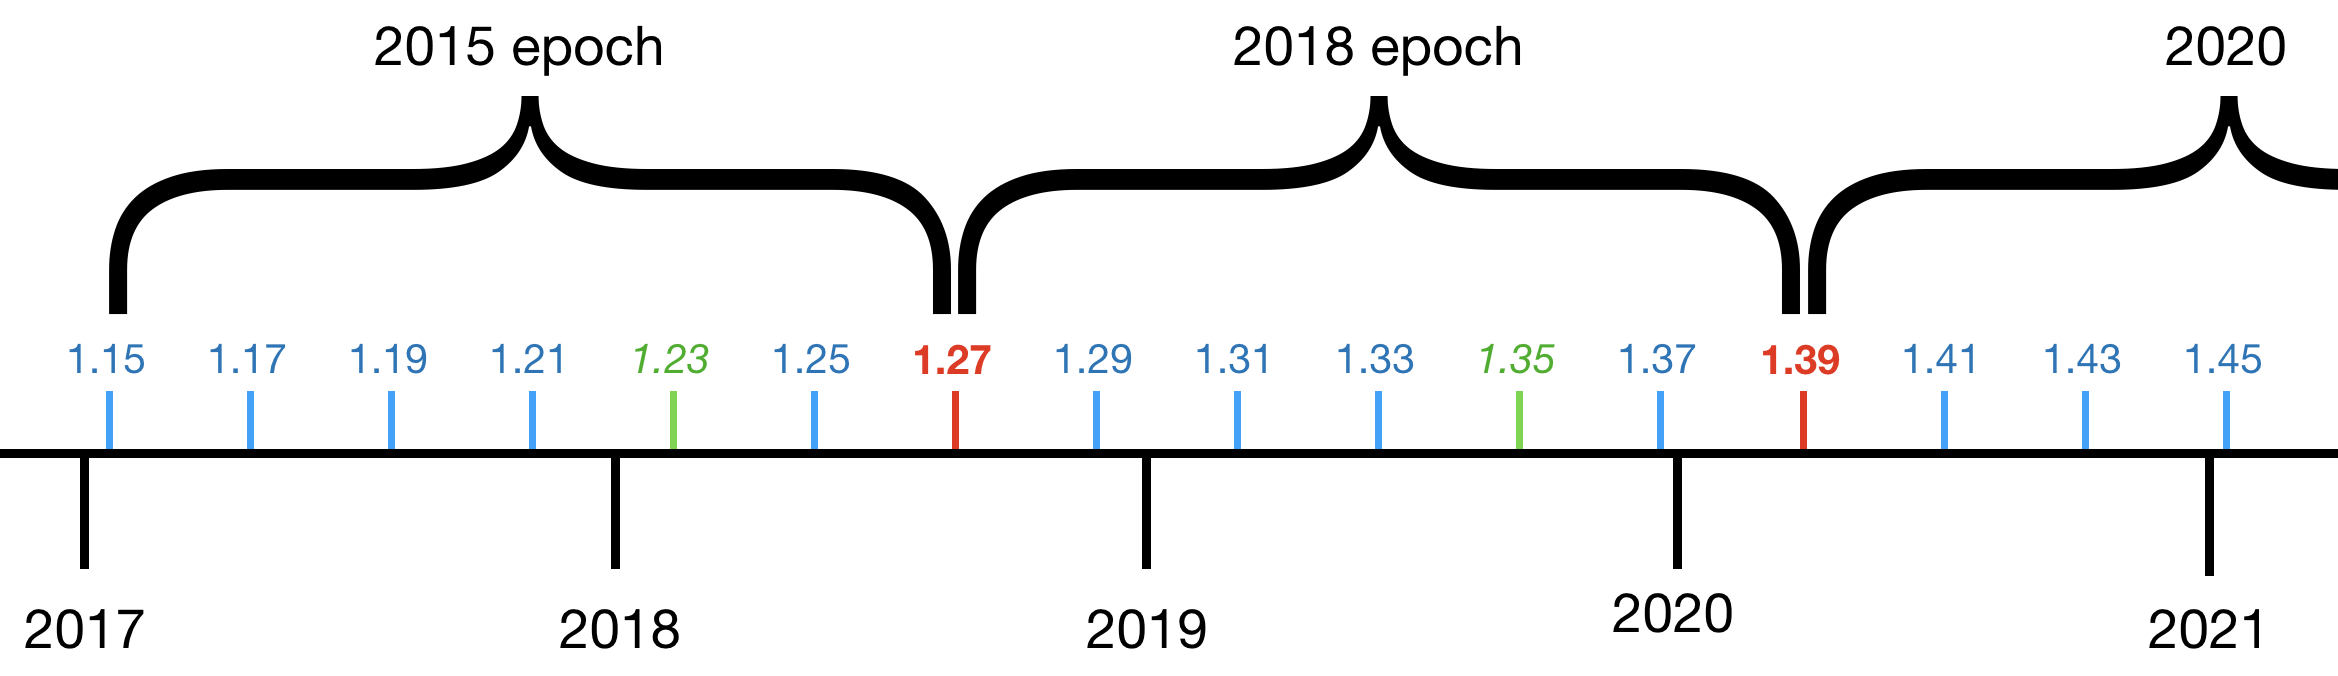
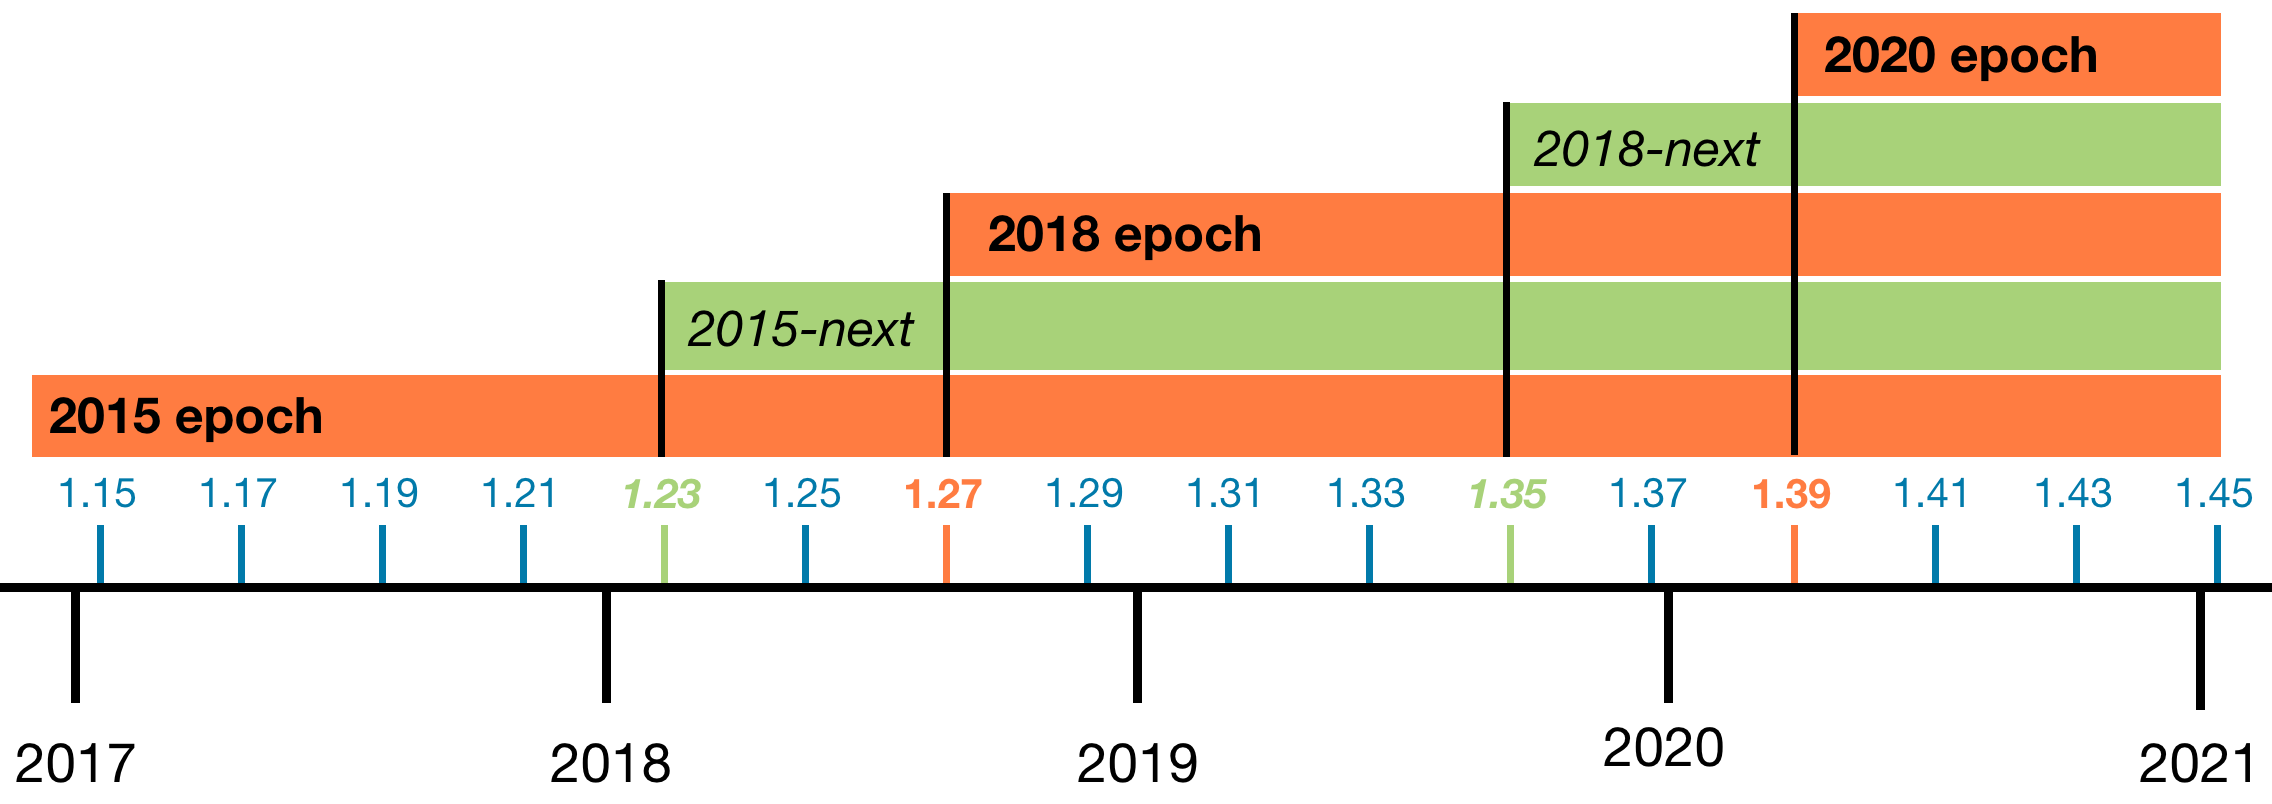
Revisions per Niko

diff --git a/text/0000-epochs.md b/text/0000-epochs.md
@@ -7,7 +7,7 @@
 [summary]: #summary
 
 There has been a long-standing question around Rust's evolution: will there ever
-be a Rust 2.0, in the semver sense?
+be a Rust 2.0 in the semver sense?
 
 This RFC gives the answer: certainly not in the foreseeable future, and probably
 not ever.
@@ -18,13 +18,13 @@ process. It's an attempt to provide the next stage of our core principle of
 [stability without stagnation], inspired in part by similar mechanisms in
 languages like C++ and Java.
 
-With epochs, it becomes possible to do things like introduce new keywords,
+With epochs, it becomes possible to do things like introduce new keywords
 without breaking existing code or splitting the ecosystem. Each crate specifies
 the epoch it fits within (a bit like "C++11" or "C++14"), and the compiler can
 cope with multiple epochs being used throughout a dependency graph. Thus we
-continue to guarantee that your code will always continue to compile on the
-latest stable release (modulo the [usual caveats]), while making it possible to
-evolve the language in some new ways via explicit opt-in.
+still guarantee that your code will keep compiling on the latest stable release
+(modulo the [usual caveats]), while making it possible to evolve the language in
+some new ways via explicit opt-in.
 
 [stability without stagnation]: https://blog.rust-lang.org/2014/10/30/Stability.html
 
@@ -69,12 +69,12 @@ There are two desires that the current process doesn't have a good story for:
 - **Lack of clear "chapters" in the evolutionary story**. A downside to rapid
   releases is that, while the constant small changes eventually add up to large
   shifts in idioms, there's not an agreed upon line of demarcation between these
-  major shifts. That is, we don't have a coherent way to talk about these
-  shifts, nor to explain the "big steps" Rust is taking when we talk to those
-  outside the Rust community. If you think about the combination of `?` syntax,
-  ATCs, `impl Trait`, and specialization all becoming available, for example,
-  it's very helpful to have an umbrella moniker like "Rust 2018" to refer to
-  that encompasses them all, and the new idioms they lead to.
+  major shifts. That is, we don't have a simple way to talk about these shifts,
+  nor to explain the "big steps" Rust is taking when we talk to those outside
+  the Rust community. If you think about the combination of `?` syntax, ATCs,
+  `impl Trait`, and specialization all becoming available, for example, it's
+  helpful to have an umbrella moniker like "Rust 2018" to refer to that
+  encompasses them all, and the new idioms they lead to.
 
 At the same time, the commitment to stability and rapid releases has been an
 incredible boon for Rust, and we don't want to give up those existing mechanisms.
@@ -87,13 +87,12 @@ release process, keeping its guarantees while addressing its gaps.
 
 ## The basic idea
 
-Here's the core idea:
+- An *epoch* represents a multi-year accumulation of features, improvements, and
+  idiom shifts for Rust. It covers the language, core libraries, core tooling,
+  and core documentation.
 
-- An *epoch* represents a major shift in Rust features and idioms.
-
-- Epochs are named by the year in which they are introduced, but we do not
-  expect a new epoch every year. (At the outset, one epoch every two years is
-  more likely; see the next section for more.)
+- Epochs are named by the year in which they are introduced, which we expect to
+  happen every two or three years.
 
 - Each **crate** declares an epoch in its `Cargo.toml` (or, if not, is assumed
   to have epoch 2015, coinciding with Rust 1.0): `epoch = "2018"`. Thus, new
@@ -107,7 +106,7 @@ existing code**.
 
 Furthermore:
 
-- Prior to a new epoch, the current epoch will gain a set of deprecations over time.
+- Prior to a new epoch, the current epoch will gain deprecations over time.
 - When cutting a new epoch, existing deprecations may turn into hard errors, and
   the epoch may take advantage of that fact to repurpose existing usage,
   e.g. introducing a new keyword. This is the only kind of change a new epoch
@@ -126,7 +125,7 @@ features that require new keywords and the like.
 
 While this RFC will focus largely on the mechanics around deprecation, a key
 point is that epochs also give a *name* to large idiom shifts, recognizing that
-a significant, coherent set of new features have stabilized and should change
+a significant set of new features have stabilized and should change
 the way you write code and construct APIs.
 
 The proposal is much akin to C++ standards, which are tied to particular years
@@ -136,10 +135,10 @@ language and changes to idioms. Compilers generally take flags to let you select
 take a similar approach.
 
 To some degree, you can understand these as "marketing" releases; they bundle
-together a set of changes into a coherent package that's easy to talk about. But
-the benefits go beyond marketing: it becomes much easier, on a blog post, to
-give context about *which era* of the language you're using without specifying a
-particular compiler version.
+together a set of changes into a (hopefully coherent) package that's easy to
+talk about. But the benefits go beyond marketing: for example, it becomes much
+easier for a blog post to give context about *which era* of the language you're
+using without specifying a particular compiler version.
 
 In the Rust world, we want to layer this kind of narrative on top of our
 existing release and roadmap process:
@@ -175,18 +174,19 @@ first epoch release.
 
 ### Epoch previews
 
-To make this work, we need one additional concept: epoch *previews*, denoted in
-the figure as green, italic compiler releases.
+To provide the clarity discussed above, and to allow us to stabilize
+improvements as they're ready, we'll introduce one more concept: epoch
+*previews*, denoted in the figure as green, italic compiler releases.
 
 The problem is that for changes that rely on a new epoch, such as introducing a
 new keyword, we cannot stabilize them within the existing epoch as-is; that
 would be a breaking change. On the other hand, we *want* to stabilize them as
 they become ready, rather than tying all of the stabilizations to a high-stakes
-epoch release.
+epoch release. And finally, we want to bundle them all together under a new moniker.
 
 We thread the needle by providing an *epoch preview* at some point prior to the
-new epoch being shipped: `epoch = "2018-preview"`. This preview includes *all*
-of the hard errors that will be introduced in the new epoch, but not yet all of
+new epoch being shipped: `epoch = "2015-next"`. This preview includes *all*
+of the hard errors that will be introduced in the next epoch, but not yet all of
 the stabilizations. It is usable from the stable channel.
 
 There are a few reasons to provide such a preview:
@@ -194,7 +194,7 @@ There are a few reasons to provide such a preview:
 - Most importantly, it clears the way to shipping features for the next epoch on
   the stable channel as they become ready, even if they require some existing
   usages to become errors. Again, keyword introduction is a simple example: the
-  `2018-preview` epoch can begin by making it a hard error to use `catch` as an
+  `2015-next` epoch can begin by making it a hard error to use `catch` as an
   identifier (which is allowed today), and then later stabilizing the new
   `catch` feature when it is ready. By "locking in" the hard errors up front,
   however, **the preview of the epoch is guaranteed to be stable**: once code
@@ -212,7 +212,7 @@ deprecations into errors. As the year progresses, features will continue
 stabilize but some may only be available by opting into the preview epoch (since
 they rely on e.g. new keywords). Finally, when we're ready to ship the full new
 product, we enable the new epoch and deprecate the preview version (which will
-behave identically to it).
+just be an alias for it).
 
 There are some alternative ways to achieve similar ends, but with significant
 downsides; these are explored in the Alternatives section.
@@ -271,15 +271,15 @@ we're currently in epoch 2015.
 - First, we deprecate uses of `catch` as identifiers, preparing it to become a new keyword.
 - We may, as today, implement the new `catch` feature using a temporary syntax
   for nightly (like `do catch`).
-- When epoch `2018-preview` is released, opting into it makes `catch` into a
+- When epoch `2015-next` is released, opting into it makes `catch` into a
   keyword, regardless of whether the `catch` feature has been implemented. This
   means that opting in may require some adjustment to your code.
 - The `catch` syntax can be hooked into an implementation usable on nightly with
   the preview epoch.
 - When we're confident in the `catch` feature on nightly, we can stabilize it
-  *onto the stable channel for users opting into `2018-preview`*. It cannot be stabilized onto the epoch `2015`,
+  *onto the stable channel for users opting into `2015-next`*. It cannot be stabilized onto the epoch `2015`,
   since it requires a new keyword.
-- At some point, epoch `2018` is fully shipped, meaning that `2018-preview`
+- At some point, epoch `2018` is fully shipped, meaning that `2015-next`
   becomes a deprecated alias for `2018`.
 - `catch` is now a part of Rust.
 
@@ -289,7 +289,7 @@ To make this even more concrete, let's imagine the following (aligned with the d
 | ------------ | ---------------------- | -- | -- |
 | 1.15 | 2015 | Valid identifier | Valid identifier
 | 1.21 | 2015 | Valid identifier; deprecated | Valid identifier; deprecated
-| 1.23 | 2018-preview | Valid identifier; deprecated | Keyword
+| 1.23 | 2015-next | Valid identifier; deprecated | Keyword
 | 1.27 | 2018 | Valid identifier; deprecated | Keyword
 
 Now, suppose you have the following code:
@@ -313,7 +313,7 @@ fn main() {
 above, it will yield a warning, saying that `catch` is deprecated as an
 identifier.
 
-- On version 1.23, if you change `Cargo.toml` to use epoch `2018-preview`, the
+- On version 1.23, if you change `Cargo.toml` to use epoch `2015-next`, the
   code will fail to compile due to `catch` being a keyword. Similarly for epoch
   `2018` on version 1.27.
 
@@ -406,9 +406,10 @@ This is essentially another example of a non-crate-local change.
 We'll wrap up with the full details of the mechanisms at play.
 
 - `rustc` will take a new flag, `--epoch`, which can specify the epoch to
-  use. If this flag is left off, epoch 2015 is assumed.
+  use. This flag will default to the current epoch.
   - This flag should not affect the behavior of the core trait system or passes at the MIR level.
 - `Cargo.toml` can include an `epoch` value, which is used to pass to `rustc`.
+  - If left off, it will assume epoch 2015.
 - `cargo new` will produce a `Cargo.toml` with the latest `epoch` value,
   including `-preview` epochs when applicable.
 
